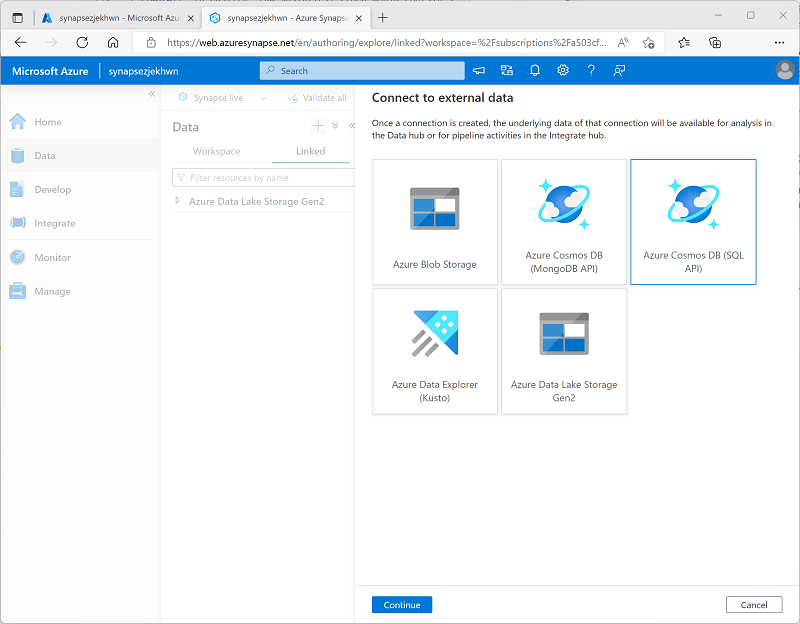
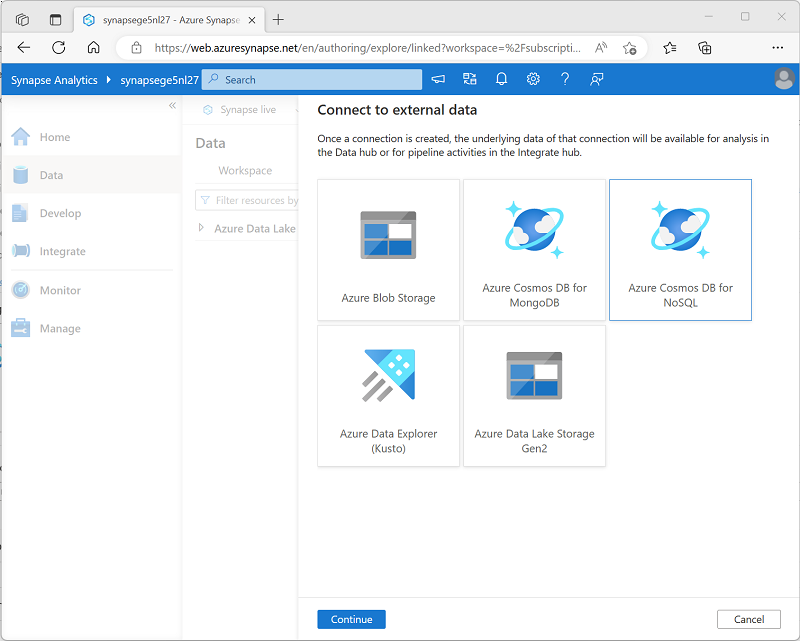
Updated Cosmos APIs

diff --git a/Instructions/Labs/14-Synapselink-cosmos.md b/Instructions/Labs/14-Synapselink-cosmos.md
@@ -65,7 +65,7 @@ Before you can use Synapse Link for Azure Cosmos DB, you must enable it in your 
 
     ![Cosmos DB Data Explorer with Enable Azure Synapse Link button highlighted](./images/cosmos-enable-synapse-link.png)
 
-4. On the left side of the page, in the **Settings** section, select the **Features** page and verify the status of the **Azure Synapse Link** feature. If it is *Off* or *Pending*, use the **&#8635; Refresh** button at the top of the page to refresh the view until it is *On*.
+4. On the left side of the page, in the **Integrations** section, select the **Azure Synapse Link** page and verify that the status of the account is *Enabled*.
 
 ### Create an analytical store container
 
@@ -145,9 +145,9 @@ Now that you have prepared your Azure Cosmos DB account, you can configure Azure
 2. Open the **synapse*xxxxxxx*** Synapse workspace, and on its **Overview** page, in the **Open Synapse Studio** card, select **Open** to open Synapse Studio in a new browser tab; signing in if prompted.
 3. On the left side of Synapse Studio, use the **&rsaquo;&rsaquo;** icon to expand the menu - this reveals the different pages within Synapse Studio.
 4. On the **Data** page, view the **Linked** tab. Your workspace should already include a link to your Azure Data Lake Storage Gen2 storage account, but no link to your Cosmos DB account.
-5. In the **+** menu, select **Connect to external data**, and then select **Azure Cosmos DB (SQL API)**.
+5. In the **+** menu, select **Connect to external data**, and then select **Azure Cosmos DB for NoSQL**.
 
-    ![Adding an Azure Cosmos DB SQl API external data link](./images/add-cosmos-db-link.png)
+    ![Adding an Azure Cosmos DB NoSQl API external data link](./images/add-cosmos-db-link.png)
 
 6. Continue, and create a new Cosmos DB connection with the following settings:
     - **Name**: AdventureWorks
